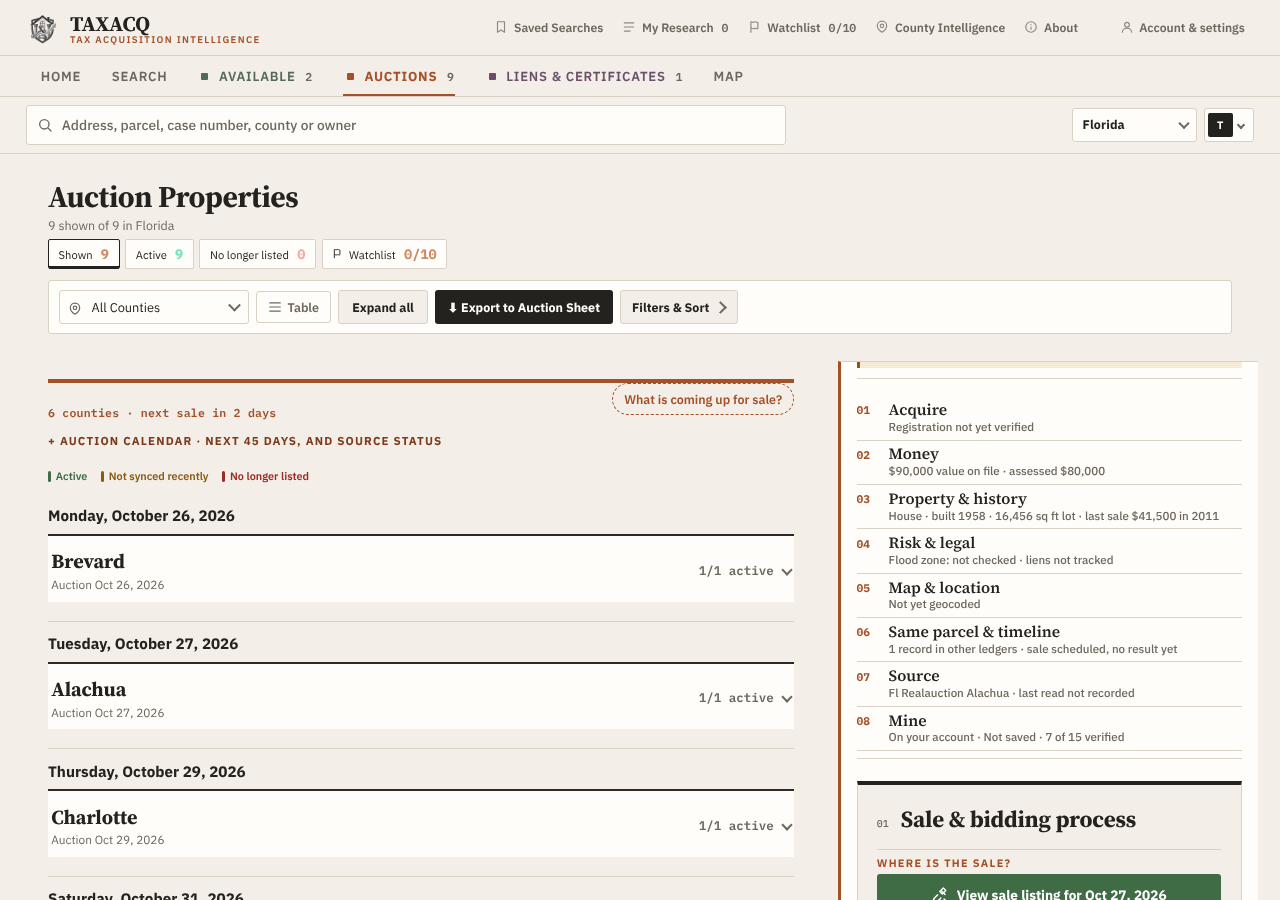
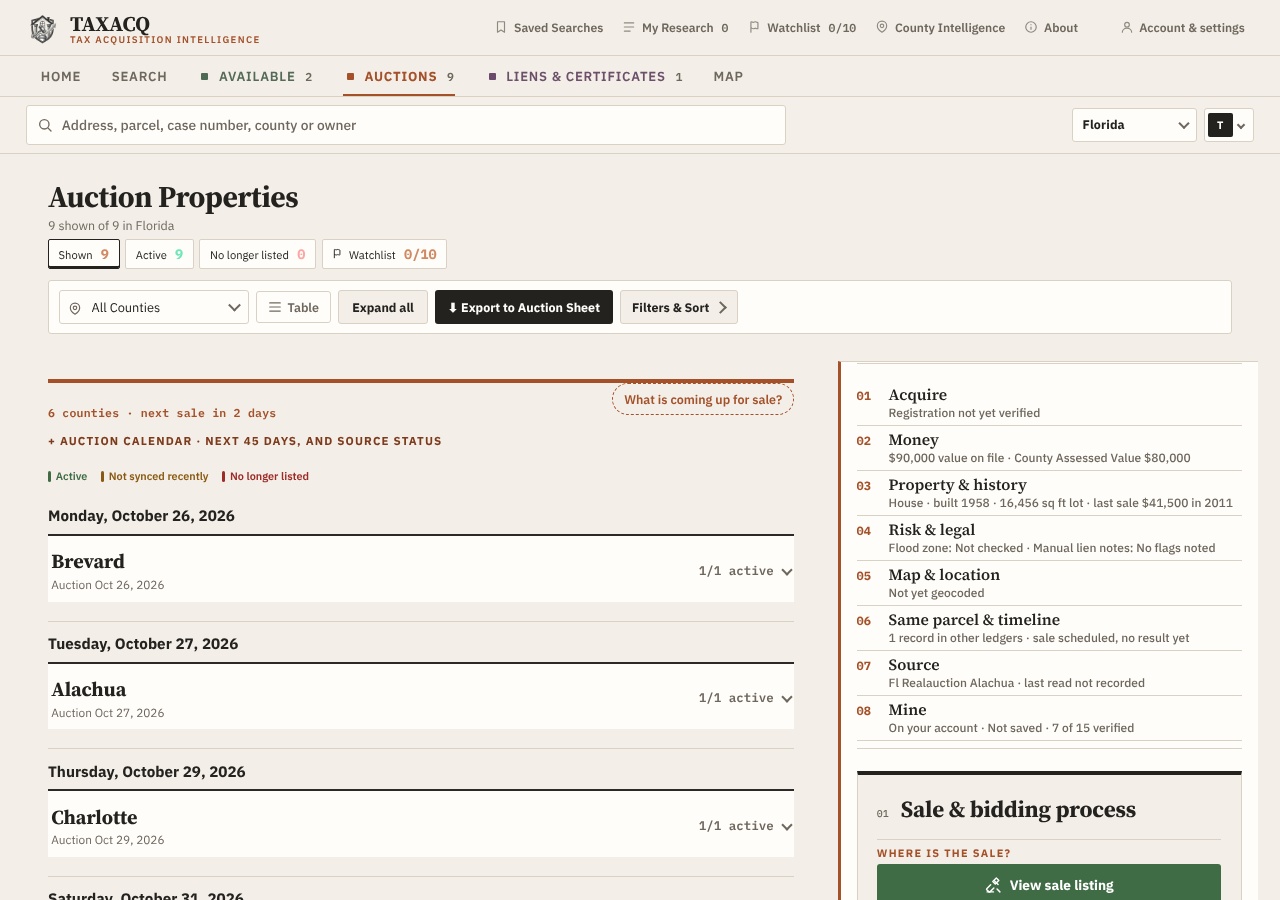
PR1 review fixes: pins from the dump, mirror, Python anchor, review doc
Finishes the 18 review findings on 5f6fc2a (code half in a310a42): the seven
first-fold / contents-list checks get EXPECTED entries read from DUMP_RESULTS;
refineDossier, detailNavLabels, rdDetail.tabs, txRaDetailLinkText (H7: the Sale
cell carries the date), researchCell* and acqPathHorryDetail are re-pinned from
the dump; the countyOnlyImagery reader scrolls the hero into view inside the
opened Map fold (IntersectionObserver hydration). Root app.js re-mirrored from
public/ (truth, documents, provenance order) and the Python source-order anchor
follows it. docs/review/redesign-pr1.md gains the Review fixes section, the
re-pin table, suite lines and refreshed screenshots.

Browser: PASS 1269/1269. Python: 3018 passed, 129 skipped.

Claude-Session: https://claude.ai/code/session_01Tjhgesv7Cyh3C5vqptiYwT

Changed region(s): [[0.6562, 0.4044, 0.9688, 1.0]]

diff --git a/app.js b/app.js
@@ -9513,8 +9513,8 @@ function detailStatusHtml(p) {
   const recAttr = rec ? ` data-ledger-record="${esc(rec.ledger)}"` : "";
   // The kicker already says "<County>, <ST> · Auction / Lands Available", so
   // the record kind is repeated only where it adds a fact: a Texas struck-off
-  // row, a dated Parish list, a non-Florida program (review H7).
-  const kind = p.source === "laft" && regionOf(p) !== "FL" ? recordKindText(p) : null;
+  // row, a dated Parish list, a non-Florida program or tax sale (review H7).
+  const kind = regionOf(p) !== "FL" ? recordKindText(p) : null;
   // The record's own ledger, named when this state calls the list something else.
   const ledgerName = rec && rec.ledger_name !== (ledgerCopy(p.source).title || k.type) ? rec.ledger_name : null;
   const sub = (t, cls) => `<span class="dossier-sub${cls ? " " + cls : ""}">${t}</span>`;
@@ -9857,7 +9857,7 @@ function detailHtml(p) {
       riskLegalCardHtml(p)])}
     ${detailGroupHtml("map", "Map & location", [propertyVisual(p, "detail-hero-photo"), gisLocationCardHtml(p)])}
     ${detailGroupHtml("related", "Same parcel & timeline", [relatedRecordsHtml(p), parcelTimelineHtml(p), eventHistorySlotHtml(p)])}
-    ${detailGroupHtml("source", "Source", [sourceTruthHtml(p), provenanceCardHtml(p), acquisitionDocumentsHtml(p), sourcesHtml,
+    ${detailGroupHtml("source", "Source", [sourceTruthHtml(p), acquisitionDocumentsHtml(p), provenanceCardHtml(p), sourcesHtml,
       p.source === "laft" ? auctionLinkHtml(p, "detail-cta") : "", whySeeingHtml(p)])}
     ${detailGroupHtml("mine", "Mine", [researchBandHtml(p), detailSectionHtml("My research", researchPanelHtml(p), "research-section", "research"), diligenceSectionHtml(p), monitorSectionHtml(p), noteHtml(p)])}
     `}

diff --git a/tests/python/test_financial_position_and_documents.py b/tests/python/test_financial_position_and_documents.py
@@ -83,7 +83,8 @@ def test_a_pdf_is_never_a_purchase_link():
 
 def test_detail_page_places_money_after_acquire_and_documents_after_source_truth():
     # Redesign PR1 (2026-10-24): the Acquire sheet, then its decision fold, then
-    # Financial position; Source truth, provenance, then Documents & links.
+    # Financial position; in the Source group, Documents & links directly after
+    # Source truth (the browser suite pins documents = truth + 1), then provenance.
     i = APP.index("acquireBlockHtml(p) : auctionAcquireHtml(p)}\n    ${decisionFoldHtml(p)}\n    ${financialPositionHtml(p)}")
-    j = APP.index("sourceTruthHtml(p), provenanceCardHtml(p), acquisitionDocumentsHtml(p)")
+    j = APP.index("sourceTruthHtml(p), acquisitionDocumentsHtml(p), provenanceCardHtml(p)")
     assert 0 < i < j

diff --git a/docs/review/redesign-pr1.md b/docs/review/redesign-pr1.md
@@ -20,10 +20,13 @@ one source-order pin.
 | 4 | **Source · last read** - `provenanceLineText(p)` | same | same |
 
 `provenanceLineText(p)` (graft D) is the one provenance wording:
-`Read from <sourceNameFor(p) || "Source not recorded"> · last synced <date> (<n> days ago)[ · may be stale] · last read <date | not recorded>`.
+`Read from <sourceNameFor(p)> · last synced <date> (<n> days ago)[ · may be stale] · last read <date | not recorded>`;
+when the row carries no source name the line starts `Source not recorded · …` (a source is never
+"read from" a placeholder - review H6).
 Never a relative time without its date, never a source name the row does not carry.
 
-Under it, one `.unknown` line: `Not known from the record: <dataGaps(p) joined by " · ">. Nothing here is estimated.`
+Under it, one `.record-gaps` line (the class was `.unknown` until review PR1-04 found it
+colliding with `.copy-btn.unknown` / `.ledger-badge.unknown`): `Not known from the record: <dataGaps(p) joined by " · ">. Nothing here is estimated.`
 (or "nothing missing from the fields this page checks").
 
 **Acquire comes next.** Auctions get a new first section, "Sale & bidding
@@ -50,11 +53,12 @@ on phones by the existing `collapseSecondaryOnPhone()`: Property & history
 row's name is labelled "Name in which assessed"), Risk & legal (manual lien
 notes banner, Risk & Legal card), Map & location (the imagery ladder hero,
 GIS & Location), Same parcel & timeline (related records, parcel timeline,
-sale event history), Source (Source truth, Data Quality & Provenance,
-Documents & links, Research & Sources, the Available list link, "Why am I
+sale event history), Source (Source truth, Documents & links,
+Data Quality & Provenance, Research & Sources, the Available list link, "Why am I
 seeing this?"), Mine (the research cell, My research, Due diligence,
-Watch & changes, notes). Every `data-section` id survives; the certificate
-page keeps its flat layout and gains the facts row and the action bar only.
+Watch & changes, notes). Every `data-section` id survives. The certificate page is grouped the same
+way (review H9): Decision (certificate decision + stat tiles) and the facts row
+open, then Property & history, Same parcel & timeline, Source and Mine folds.
 
 **Contents list (graft D).** `detailNavHtml(bodyHtml, p)` renders
 `.detail-nav.detail-toc`: one numbered `<button data-action="jump">` per group
@@ -77,12 +81,75 @@ the Map preview and Home are PR 2 / PR 3. The decision Q&A keeps its own gap
 list (the full-page sections keep theirs; only the first fold states each gap
 once).
 
+## Review fixes
+
+Two reviewers returned 18 findings (H1-H9, PR1-01..09) against `5f6fc2a`. Each was
+checked against the code before acting; all 18 were confirmed and fixed - none
+rejected. The code half landed as `a310a42` (WIP) and this commit; the pins, the
+Python anchor and this document are in this commit.
+
+| Finding | What was wrong | Fix |
+|---|---|---|
+| H1 (major) | A row that left the county feed before its sale date read "sale date … has passed" and "after the sale the county publishes results there" - a sale the record never recorded. | `auctionLinkInfo()`: only a date behind us "has passed"; a future one reads "was scheduled for <date>". `auctionAcquireHtml()`: a gone row with a future or no date reads `outcomeText(p)` + "why (redeemed, cancelled, postponed, sold) is not recorded; check the county record." |
+| H2 (major) | Contents entry "sale scheduled, no result yet" on a row whose facts row says "No longer listed". | `detailGroupStatus("related")` prints `outcomeText(p)` for a gone auction row before consulting `auctionOutcomeState()`. |
+| H3 (major) | Risk & legal status always "liens not tracked" and lower-cased FEMA's zone label. | FL rows: `Manual lien notes: ${LIEN_LABEL[p.lien_level] \|\| "Not reviewed"}` (the banner's own fields); other states keep "liens not tracked"; `floodShort(p).text` as returned. |
+| H4 (major) | "assessed" hard-coded in the Money status and the Value sub-line. | `assessedSourceLabel(p)` in both places (MI: "State Equalized Value (county list)", TX: the CAD label). |
+| H5 (major) | "the official listing is the source's own statement" on vendor-listed rows (TX LGBS). | "official" dropped: "the listing is the source's own statement of availability." |
+| H6 (minor) | "Read from Source not recorded · …". | `provenanceLineText()` starts "Source not recorded · …" when `sourceNameFor(p)` is null; the first-fold check accepts either prefix (`provPrefix`). |
+| H7 (minor) | Ledger / program / sale date each stated twice in the first fold. | The record-kind sub-line renders only outside Florida (where it adds a fact the kicker lacks: struck-off, dated Parish list, a non-FL program); the Acquire CTA reads "View sale listing" (the Sale cell carries the date); `firstFoldAuction.cta` is now the full label, so a date in it would be counted. |
+| H8 (minor) | "Property & history" rendered but was missing from the contents list; list numbers (01..08) disagreed with the CSS counter on the page (01..06). | `detailGroupEntries()`: a rendered `data-group` with no named section is listed with the group as target (the `jump` action resolves `details.detail-group[data-group]`); `detailHtml()` writes the list's number into each summary (`data-n`), the `dgroup` counter is gone. |
+| H9 (minor) | The certificate page kept a flat layout the plan does not exempt. | Grouped: Decision + facts open; Property & history, Same parcel & timeline, Source, Mine as `details.detail-group`. |
+| PR1-01 (blocker) | The seven new checks had no EXPECTED entry, so they could never fail. | Pinned from the dump (`firstFoldAuction`, `firstFoldJumpOpensDecision`, `firstFoldActbarFav`, `firstFoldAvailable`, `firstFoldUnverifiedAvailable`, `detailContents`, `detailContentsJumpOpensGroup`) - see "Checks re-pinned". |
+| PR1-02 (blocker) | Stale pins the suite fails on (`refineDossier`, `detailNavLabels`, `rdDetail.tabs`, `offListDetail`, `researchCell*`, `flInventoryNavHasInventory`, `decNavHasDecision`, `eventNavPill`, `monDetailNavPill`, the timeline `navPill`, `ledgerRecordBand`). | Readers retargeted at the groups where the old pill is gone; values re-pinned from the dump. Table below. |
+| PR1-03 (blocker) | Placeholders in this document. | Filled from the final dump. |
+| PR1-04 (major) | `.unknown` collided with `.copy-btn.unknown` / `.ledger-badge.unknown` (identity.css loads last). | Class renamed `.record-gaps` (app.js, identity.css, the test selector). |
+| PR1-05 (major) | Favorite / Watchlist from the bottom bar re-rendered the page and closed every fold. | `refreshOpenDetail()` records each `details` open state and `scrollTop` before `openDetail()` and restores them. |
+| PR1-06 (minor) | Mine entry stuck on "Loading your research…". | `researchAfterOpen()` rewrites `.detail-toc button[data-group="mine"] .toc-s` once research has loaded. |
+| PR1-07 (minor) | The band no longer named the record's ledger. | `.dossier-sub.ledger-name` ("<ledger> ledger") in cell 1 whenever `ledgerRecordView(p).ledger_name` differs from this state's list title; `ledgerRecordBand` reads that class. |
+| PR1-08 (minor) | `.toc-n` / `.toc-s` / `.dossier-research-band dt` below 12px. | All three at `.75rem`. |
+| PR1-09 (minor) | `refineDossier.lastRead` reader kept the "last read " prefix. | Reader strips it; the pin stays the date. |
+
+Also found while finishing: the root mirror of `app.js` and the Python anchor
+`test_detail_page_places_money_after_acquire_and_documents_after_source_truth`
+still carried the Source-group order "truth, provenance, documents"; the browser
+check `order.indexOf('documents') === order.indexOf('truth') + 1` (and CLAUDE.md:
+"`documents` sits right after `truth`") requires documents directly after truth,
+which `public/app.js` already did. Mirror and anchor now follow the code.
+
 ## Checks re-pinned
 
 All values below were read from `DUMP_RESULTS` runs against the served build
 of this branch, never guessed. "Why correct" says what the new value shows.
 
-RE_PIN_TABLE
+| Check | Old | New | Why the new value is correct |
+|---|---|---|---|
+| `brandSwReload.cache` | `tdw-shell-v137` | `tdw-shell-v138` | PR1's own service-worker bump. |
+| `refineDossier.status` | `["Ledger","Status","Last read","Your research (…)"]` | `["Availability","Price","Value on file","Source · last read"]` | The band is the four-fact row (plan item 1); the research cell moved to Mine. |
+| `refineDossier.lastRead` (reader) | read `dd[2]` | reads the last segment of the provenance cell (`dd[3]`), `last read ` stripped; value stays `Sep 20, 2026` | The last-read date now lives in the provenance line (graft D). |
+| `detailNavLabels` | 15 pill labels (`Decision`, `Tax & Value`, …) | 8 entries `01 Acquire Registration not yet verified` … `08 Mine On your account · Not saved · 7 of 15 verified` | The numbered contents list with each group's honest status (plan item 6); every status is an existing helper's output. |
+| `rdDetail.tabs` | 17 pill labels | 8 entries for p3 (`03 Property & history Vacant Lot`, `07 Source FL LAFT Html · last read Sep 20, 2026`, …) | Same list on the Available page; `why` / `acquire` unchanged. |
+| `txRaDetailLinkText` | `/^View sale listing for <date>$/` | `/^View sale listing$/` | Review H7: the Sale cell carries the date; the Acquire sheet's CTA does not repeat it. The card's link (`txRaCardLinkText`) keeps the date. |
+| `researchCellBefore` / `After.besideOfficial` | `4` | `1` | The research cell is its own `.dossier-research-band` dl in Mine (one child), no longer beside the three official cells; `own` (the "not an official status" label) still true. |
+| `acqPathHorryDetail.pdfLinks` | `Bid form →` first | `Download bid form` first | The acquisition CTA leads the Acquire sheet, above the checklist (plan item 3); the same seven links, one order change. |
+| `offListDetail` (reader) | `dd.warn` | `dd.warn, dd .warn` | The off-list warning is a `.dossier-sub.warn` inside the Sale cell; the text check is unchanged. |
+| `eventNavPill` (reader) | `[data-target="events"]` | `[data-group="related"]` | Sale events sit in the Same parcel & timeline group; value 1. |
+| `monDetailNavPill` (reader) | `[data-target="monitor"]` | `[data-group="mine"]` | Watch & changes sits in Mine; value 1. |
+| `decNavHasDecision` (reader) | `[data-target="decision"]` | `[data-group="acquire"]` | The decision fold is under Acquire; value 1. The result-jump link still targets `decision` (`firstFoldJumpOpensDecision`). |
+| `flInventoryNavHasInventory` (reader) | a pill labelled `Inventory` | Money entry present and `[data-section="inventory"]` rendered | Inventory & Purchase sits in the Money group; value true. |
+| timeline `navPill` (reader, `parcelTimeline*`) | button text `Timeline` | `data-group === 'related'` | Same group move. |
+| `ledgerRecordBand` (reader) | first `.dossier-sub` | `.dossier-sub.ledger-name` | PR1-07: the ledger name is its own sub-line, shown only when it differs from the state's list title; on the FL page all three stay `null`. |
+| Financial-position `order` (reader) | `money === acquire + 1` | allows the `decision` fold between them | The decision fold sits between Acquire and Money; `documents === truth + 1` unchanged. |
+| `countyOnlyImagery` (reader) | hero at the top of the page | opens the Map fold and scrolls the hero into view before waiting | The mini-map hydrates from an IntersectionObserver; the value (`drawn: true`) is unchanged. |
+| Python `test_detail_page_places_money_after_acquire_and_documents_after_source_truth` | `${acquireBlockHtml(p)}\n${financialPositionHtml(p)}` / truth then documents | the sheet + decision fold + financial position / truth, documents, provenance | Anchors follow the new source order; the rule (money after acquire, documents right after truth) is the same. |
+| Python sw pins (six tests) | v137 | v138 | Service-worker bump. |
+
+New pins (`firstFoldAuction`, `firstFoldJumpOpensDecision`, `firstFoldActbarFav`,
+`firstFoldAvailable`, `firstFoldUnverifiedAvailable`, `detailContents`,
+`detailContentsJumpOpensGroup`) were taken verbatim from `dump-r1.json` after the
+review fixes; each value was read before pinning (the gaps line names only
+`dataGaps(p)` items, the CTA is `View sale listing` / `Download application`, the
+provenance cell starts `Source not recorded` for p5, the eight contents entries carry
+their statuses, the Mine entry is not "Loading…").
 
 ## New checks
 
@@ -98,8 +165,8 @@ RE_PIN_TABLE
   row shows.
 - `firstFoldAvailable` (p15): the "Download application" CTA inside the first
   fold, "Price · Not published", the gaps line.
-- `firstFoldUnverifiedAvailable` (p3): "Verified: Not yet" leads the sheet, no
-  CTA.
+- `firstFoldUnverifiedAvailable` (ptx6 on tx.html, a vendor-listed row): "Verified: Not yet"
+  leads the sheet with no "official" wording, no CTA.
 - `detailContents` / `detailContentsJumpOpensGroup` (p1 at 1280, side panel):
   the contents list follows the facts row, its eight entries with their
   statuses, no score words, groups open on desktop, the bar hidden; a jump to
@@ -118,4 +185,10 @@ Taken from the served build, signed in through the stub, in this folder
 
 ## Suites
 
-SUITES_LINE
+Against the served build of this branch head (port 8941, `build_serve_any.sh`),
+after the review fixes:
+
+- Browser: `PASS: all 1269 checks matched, 8 console error(s) all allowlisted.`
+  (1262 carried over + the 7 first-fold / contents-list pins).
+- Python: `3018 passed, 129 skipped` (`python3 -m pytest -q tests/python -x`).
+- Root mirror byte-identical to `public/` for every tracked file.
